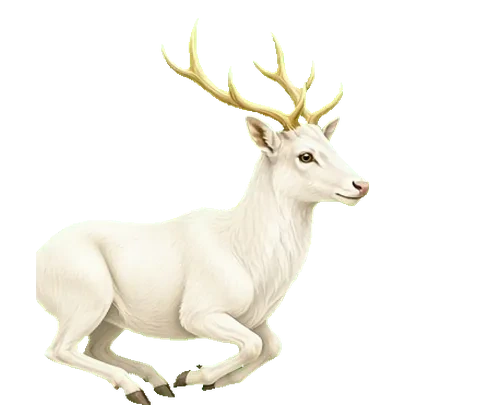
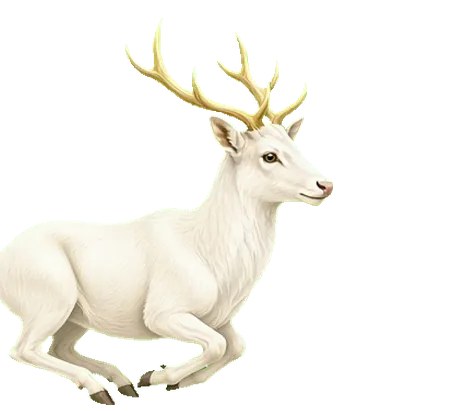
Vrať původní běh jelena
Dokreslené nohy byly horší než oříznutá kresba. Snímky jsou zase původní.

diff --git a/src/game/runner.ts b/src/game/runner.ts
@@ -1038,7 +1038,7 @@ export class Runner {
 
   private loadFramesCounted(name: string, count = 4) {
     // Bradka je pryč ze snímků. Staré webp prohlížeč drží 4 hodiny, verze to obejde.
-    const v = name === "stag-run" ? "?v=6" : name === "run" || name === "idle" || name === "look" ? "?v=5" : "";
+    const v = name === "stag-run" ? "?v=7" : name === "run" || name === "idle" || name === "look" ? "?v=5" : "";
     return Promise.all(
       Array.from({ length: count }, (_, i) => this.loadCounted(publicUrl(`/game/${name}/${i}.webp${v}`))),
     ).then((frames) => frames.filter((frame): frame is HTMLImageElement => frame !== null));
